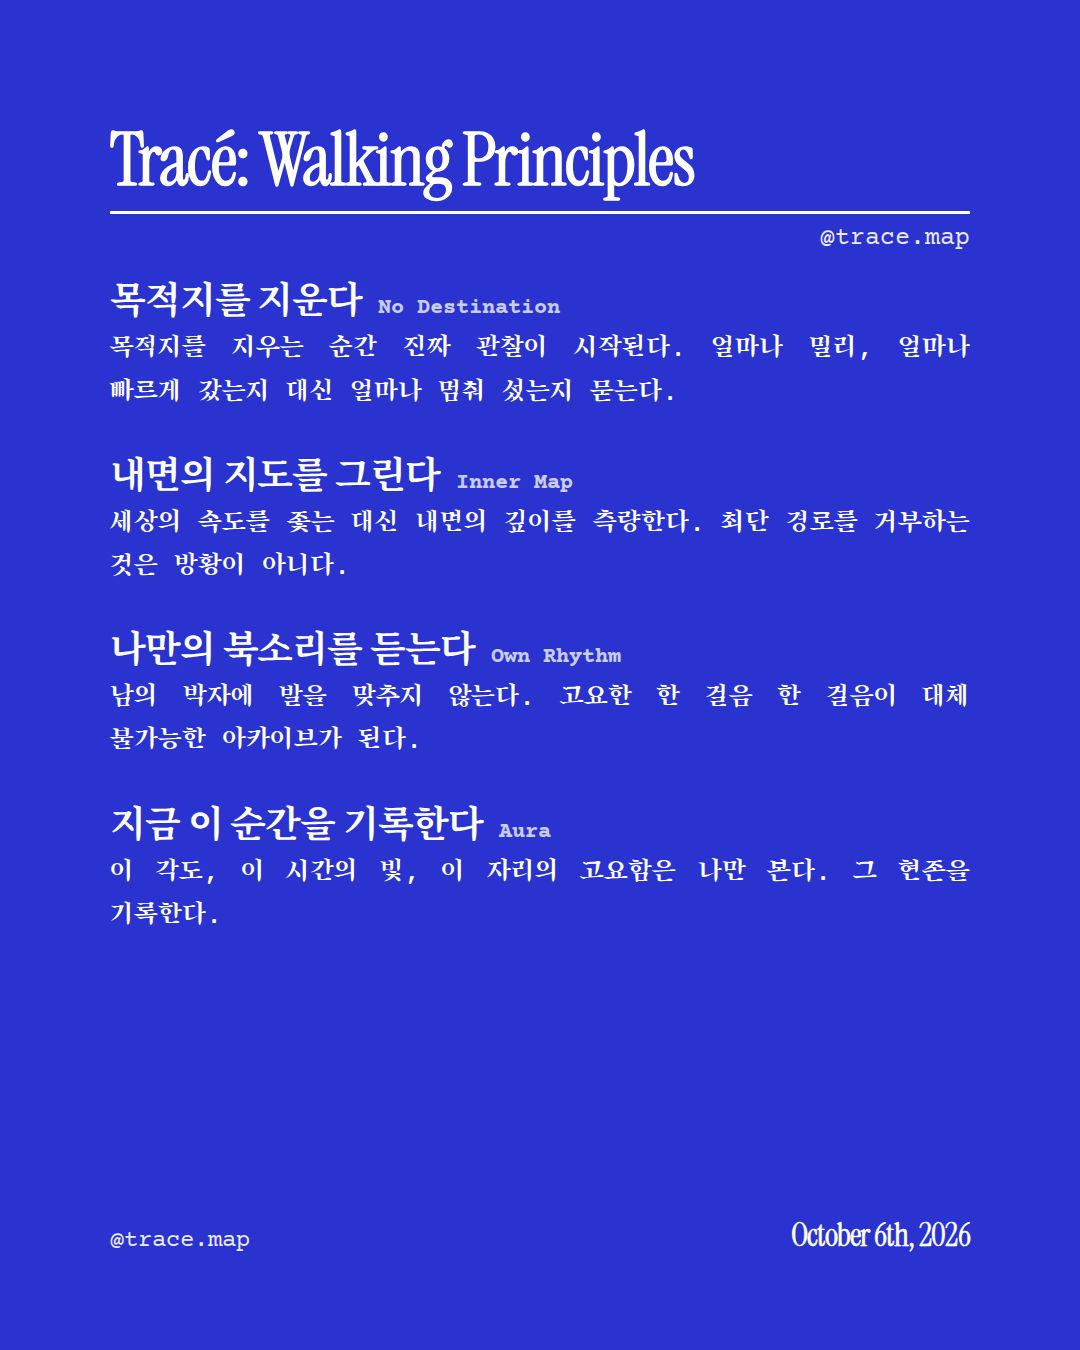
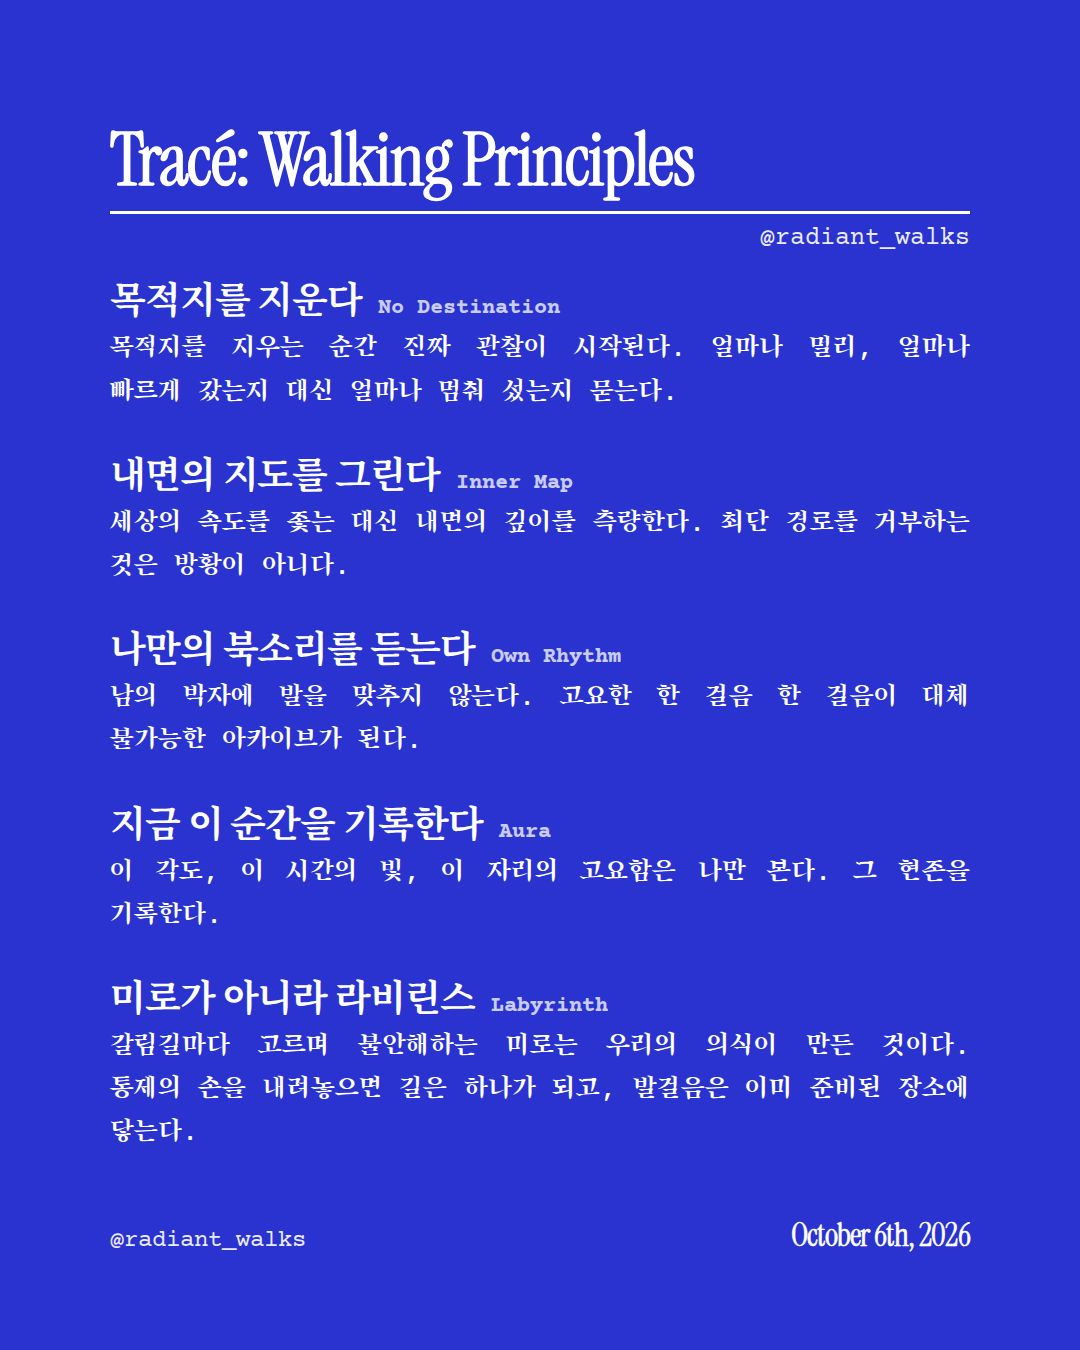
Manifesto cards: @radiant_walks handle and principle 11 Labyrinth; quote cards use exact essay sentences; captions for both
Claude-Session: https://claude.ai/code/session_01SqK9Lxgur98TyfHNbRYJgn

Changed region(s): [[0.0917, 0.7156, 0.9167, 0.84], [0.7028, 0.1556, 0.9167, 0.1867], [0.1222, 0.9022, 0.275, 0.9333]]

diff --git a/threshold/content/essay_seoul_tokyo/captions.md b/threshold/content/essay_seoul_tokyo/captions.md
@@ -41,14 +41,62 @@
 #Trace #감도 #디지털Zine #공간디자인 #서울건축 #도시산책 #UX디자인
 ```
 
-## 인용 카드 E (단일 이미지, 한 번에 한 장씩)
+## 인용 카드 E (`cards/quotes_e/01~05.jpg`)
+
+카드 아래 작은 문장과 캡션 모두 에세이 원문 그대로. 5장을 캐러셀 하나로 올리는 걸 추천 (낱장으로 올리면 그리드가 5칸 늘어난다).
+
+### 캐러셀 1개로 올릴 때
 
 ```
-공간을 사는 사람이 아니라 공간에 머무는 사람을 기준으로.
+특정 철학을 지닌 부동산의 스페이스 개발은 그 곳에 머무는 사람들에게 메시지를 전달한다.
 
-#Trace #감도 #디지털Zine #공간디자인
+결국 건축이든 디지털 UX든 본질은 설계자가 구조를 짤 때, 그 목적이 숫자에 있는가, 아니면 그 공간을 누리는 사람에게 있는가에 있다.
+
+주택의 1층을 지역 사회에 열어두어 이웃과 느슨하게 부딪히게 만들고, 굳이 문을 열고 들어가지 않아도 서로의 존재를 승인하는 환대의 인터페이스.
+
+진정한 아키텍처는 기획자가 단번에 찍어내는 완성형 결과물이 아니라, 시간이 흐르며 유저와 상호작용하는 ‘과정(Process)’ 그 자체다.
+
+‘머무는 사람’을 고민하는 건축가와, 데이터를 넘어 ‘사유하는 개인’을 상기하려는 서비스 기획자는 결국 같은 세계를 지을 수 있다.
+
+#Trace #공간디자인 #UX디자인 #서울도쿄 #건축 #에세이
 ```
-(다른 인용 카드는 같은 형식으로 첫 줄만 카드 문장으로 바꾼다)
+
+### 낱장으로 올릴 때 (카드 번호 = 문장 번호)
+
+01.
+```
+특정 철학을 지닌 부동산의 스페이스 개발은 그 곳에 머무는 사람들에게 메시지를 전달한다.
+
+#Trace #공간디자인 #UX디자인 #서울도쿄 #건축 #에세이
+```
+
+02.
+```
+결국 건축이든 디지털 UX든 본질은 설계자가 구조를 짤 때, 그 목적이 숫자에 있는가, 아니면 그 공간을 누리는 사람에게 있는가에 있다.
+
+#Trace #공간디자인 #UX디자인 #서울도쿄 #건축 #에세이
+```
+
+03.
+```
+주택의 1층을 지역 사회에 열어두어 이웃과 느슨하게 부딪히게 만들고, 굳이 문을 열고 들어가지 않아도 서로의 존재를 승인하는 환대의 인터페이스.
+
+#Trace #공간디자인 #UX디자인 #서울도쿄 #건축 #에세이
+```
+
+04.
+```
+진정한 아키텍처는 기획자가 단번에 찍어내는 완성형 결과물이 아니라, 시간이 흐르며 유저와 상호작용하는 ‘과정(Process)’ 그 자체다.
+
+#Trace #공간디자인 #UX디자인 #서울도쿄 #건축 #에세이
+```
+
+05.
+```
+‘머무는 사람’을 고민하는 건축가와, 데이터를 넘어 ‘사유하는 개인’을 상기하려는 서비스 기획자는 결국 같은 세계를 지을 수 있다.
+
+#Trace #공간디자인 #UX디자인 #서울도쿄 #건축 #에세이
+```
 
 ## 연재 1편 · 도쿄는 구역을 짓고 서울은 건물을 판다 (14장)
 

diff --git a/threshold/content/manifesto/captions.md b/threshold/content/manifesto/captions.md
@@ -1,28 +1,45 @@
 # 원칙 선언문 캡션 (복사해서 붙여넣기)
 
-## UX Principles (2장)
+카드에 적힌 원칙 이름을 그대로 나열했다. 덧붙인 말 없음. 계정 표기는 @radiant_walks.
+
+## UX Principles (2장 캐러셀) · `cards/ux_principles/01.jpg`, `02.jpg`
 
 ```
-Tracé가 화면을 설계할 때 지키는 원칙 여섯 가지.
-공간 설계에서 배웠다.
+Tracé: UX Principles
 
-#Trace #UX원칙 #UX디자인 #서비스기획 #공간디자인
+유저를 줄 세우지 않는다 · Human Scale
+나열 말고 응축한다 · Condense
+동선은 흐르게 둔다 · Flow
+퍼널 대신 시퀀스 · Sequence
+문턱은 낮게 · Low Threshold
+완성하지 말고 함께 짓는다 · Participation
+
+#Trace #UX원칙 #UX디자인 #서비스기획 #공간디자인 #선언문
 ```
 
-## Walking Principles (1장)
+## Walking Principles (1장) · `cards/walking_principles/01.jpg`
 
 ```
-Tracé의 산책 원칙.
-목적지를 지우고, 내 박자로 걷고, 지금 이 순간을 기록한다.
+Tracé: Walking Principles
 
-#Trace #산책 #도시산책 #플라뇌르 #기록
+목적지를 지운다 · No Destination
+내면의 지도를 그린다 · Inner Map
+나만의 북소리를 듣는다 · Own Rhythm
+지금 이 순간을 기록한다 · Aura
+미로가 아니라 라비린스 · Labyrinth
+
+#Trace #산책 #도시산책 #플라뇌르 #걷기 #선언문
 ```
 
-## Map Principles (1장)
+## Map Principles (1장) · `cards/map_principles/01.jpg`
 
 ```
-Tracé 지도는 이렇게 만든다.
-평점 대신, 왜 이 장소인지.
+Tracé: Map Principles
 
-#Trace #지도 #감도 #도시산책 #장소기록
+평점이 없다 · No Ratings
+알고리즘이 고르지 않는다 · No Algorithm
+맥락을 남긴다 · Context
+검은 선으로 그린다 · Black Line
+
+#Trace #지도 #지도앱 #도시산책 #장소기록 #선언문
 ```
